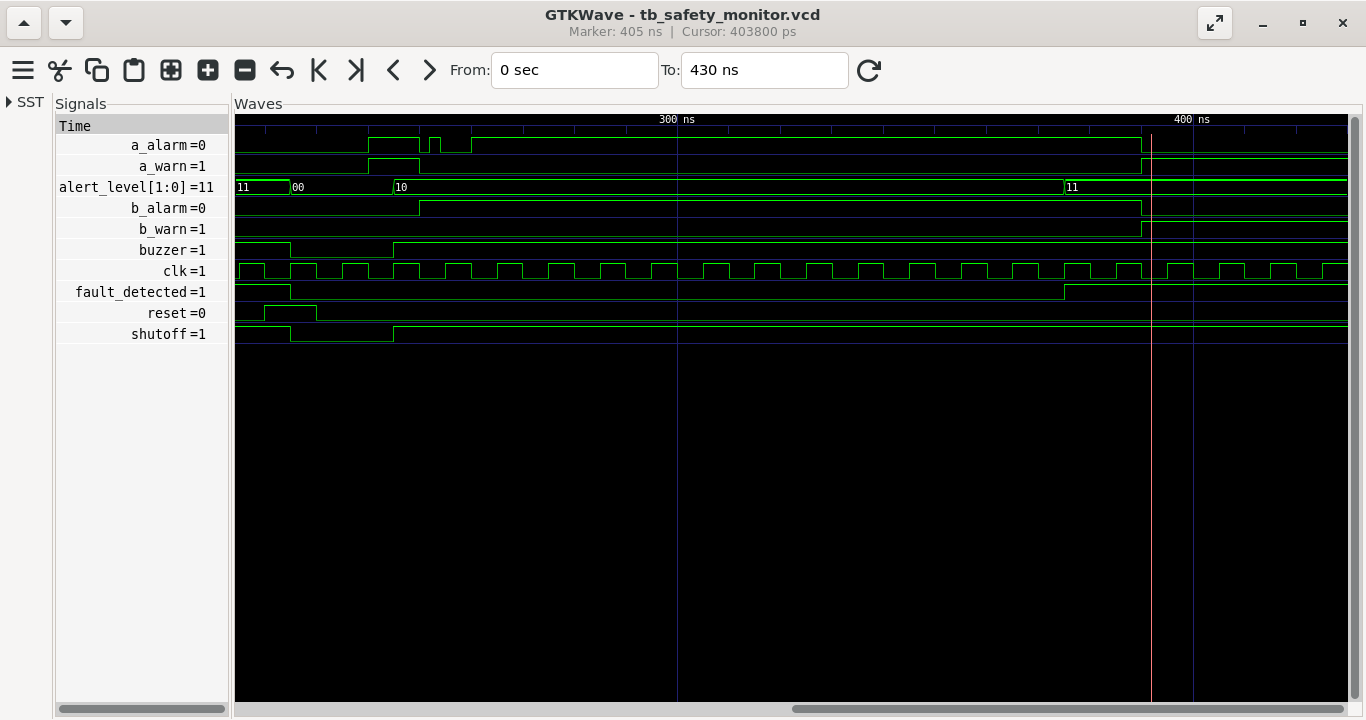
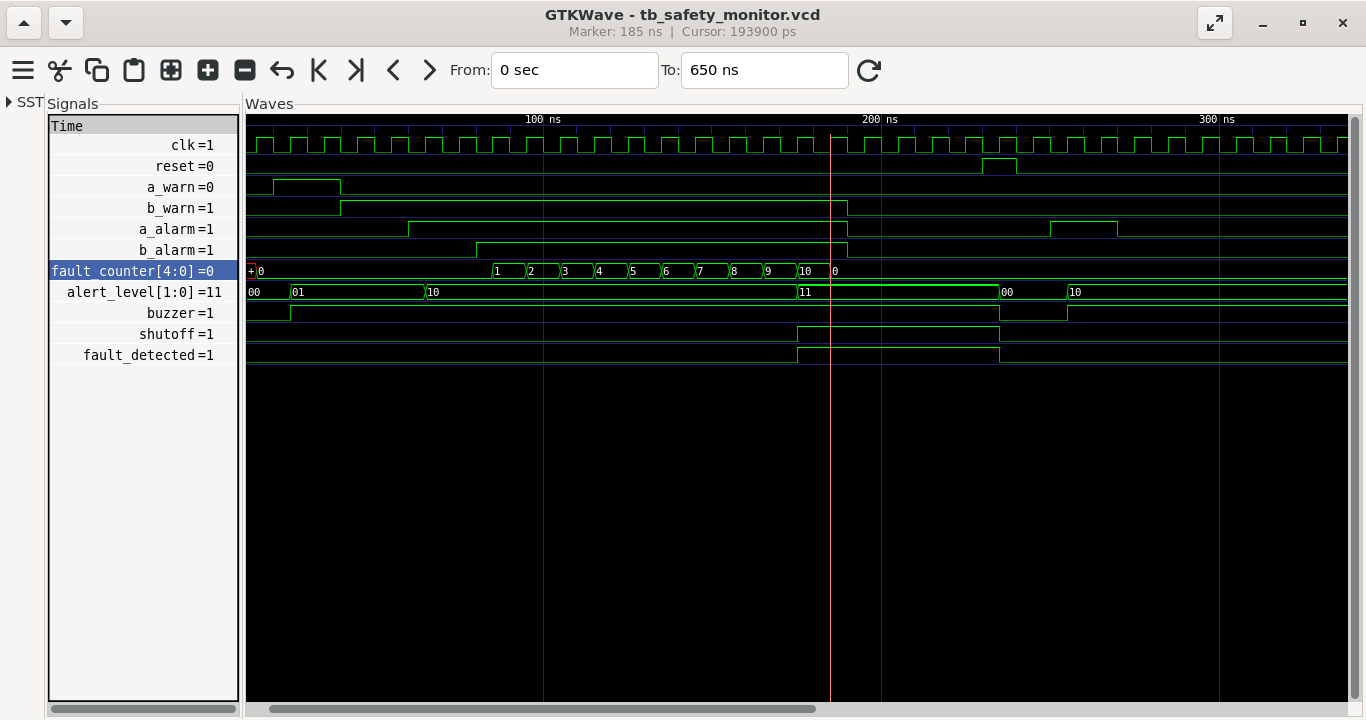
refactor: apply post-review refinements for design consistency

diff --git a/rtl_projects/safety_monitor/README.md b/rtl_projects/safety_monitor/README.md
@@ -2,55 +2,60 @@
 
 ## Overview
 
-This project is an RTL (Register Transfer Level) implementation of a Safety Monitor Finite State Machine (FSM) written in SystemVerilog.
+This project is a rigorously verified RTL (Register Transfer Level) implementation of a Safety Monitor Finite State Machine (FSM) written in SystemVerilog.
 
-This digital logic core was designed to act as the primary safety controller for an **IoT Multi-Gas Detection System**. While the physical sensors (MQ series) read the analog gas concentrations, this hardware module processes the digitized thresholds to manage system states, trigger physical buzzers, and strictly enforce a non-recoverable lockout protocol to prevent hardware damage during critical multi-gas faults.
+This digital logic core acts as the primary safety controller for an **IoT Multi-Gas Detection System**. While physical sensors (e.g., MQ-series) handle analog gas concentration readings, this hardware module processes the digitized thresholds to manage system states, trigger physical alarms, and strictly enforce a non-recoverable lockout protocol to mitigate catastrophic multi-gas faults.
 
-## Architecture
+## Architecture & Logic
 
-*(FSM Architecture Blueprint)*
+*(System Architecture Blueprint)*
 
-![Safety Monitor State Diagram](state_diagram.png)
+<img src="./safety_monitor_fsm.png" width="100%" alt="Safety Monitor State Diagram">
 
-The system is implemented as a 3-block Moore FSM with an integrated 10-cycle fault integration counter.
+The system is implemented as a 3-block Moore FSM with an integrated 10-cycle fault integration counter. To prevent expensive nuisance shutoffs from transient sensor glitches, the FSM separates the conceptual "Danger" state into a two-tiered escalation protocol:
 
 ### State Machine Protocol
 
-* **NORMAL (00):** System is idle. Sensors read safe levels.
-
-* **WARNING (01):** A single sensor detects elevated gas levels. Buzzer is triggered.
-
-* **ALARM (10):** A critical threshold is reached. If two sensors hit ALARM simultaneously, a 10-clock-cycle fault counter begins.
-
-* **LOCKOUT (11):** If the fault counter saturates, the system enters a hard lockout. A physical shutoff signal is asserted to close valves/power. **Crucially, the system cannot exit this state even if the gas clears.** It requires a manual physical `reset` to recover.
+* **NORMAL (00):** System is idle. Sensors read safe levels. All outputs driven low.
+* **WARNING (01):** A single sensor detects elevated gas levels. The `buzzer` is triggered to alert personnel, but operations continue.
+* **ALARM (10) [The Grace Period]:** A critical threshold is breached. The system **latches** into this state, ensuring the buzzer sounds continuously to mandate human inspection even if the gas briefly clears. A 10-clock-cycle fault integration timer begins. 
+* **LOCKOUT (11) [The Mitigation State]:** If the fault counter saturates (indicating a persistent, dangerous gas leak for 10 continuous clock cycles), the system enters a hard lockout. A physical `shutoff` signal is asserted to close physical valves and cut machine power. **This is a non-recoverable safety trap.** The system cannot exit this state—even if the gas completely clears—without a manual physical `reset` from a safety officer.
 
 ### Port Map
 
 | Type | Signal | Width | Description | 
 | :--- | :--- | :--- | :--- | 
 | **Input** | `clk` | 1-bit | System clock | 
-| **Input** | `reset` | 1-bit | Active-high synchronous reset | 
+| **Input** | `reset` | 1-bit | Active-high synchronous global reset | 
 | **Input** | `a_warn`, `b_warn` | 1-bit | Sensor A/B early warning thresholds | 
 | **Input** | `a_alarm`, `b_alarm` | 1-bit | Sensor A/B critical thresholds | 
 | **Output** | `alert_level` | 2-bit | Current FSM state (00, 01, 10, 11) | 
 | **Output** | `buzzer` | 1-bit | High during Warning, Alarm, and Lockout | 
-| **Output** | `shutoff` | 1-bit | High only during Lockout (drives safety relay) | 
+| **Output** | `shutoff` | 1-bit | High only during Lockout (drives physical safety relay) | 
 | **Output** | `fault_detected` | 1-bit | Asserts when the 10-cycle integration counter saturates | 
 
 ## Simulation & Verification
 
-The design is fully verified using Icarus Verilog and GTKWave. The testbench (`tb_safety_monitor.sv`) injects 11 distinct scenarios including normal operations, glitch immunity, priority overrides, and the critical lockout trap.
+The design is fully verified using Icarus Verilog and GTKWave. The testbench (`tb_safety_monitor.sv`) is an **automated self-checking environment** that mathematically evaluates the expected outputs across multiple complex scenarios without requiring manual waveform inspection.
+
+The test suite automatically verifies:
+
+* Basic state transitions and combinational output assignments.
+* Sub-clock-cycle glitch immunity (debouncing noise).
+* Latching behavior of the ALARM state when gas clears prior to threshold.
+* The exact 10-cycle fault integration boundary.
+* Lockout priority over downgraded warnings.
 
 ### How to Run Locally
 
 A bash automation script is provided for one-click compilation and simulation.
 
-1. Ensure `iverilog` and `gtkwave` are installed.
+1. Ensure `iverilog` and `gtkwave` are installed on your Linux/WSL environment.
 2. Make the script executable: `chmod +x sim_run.sh`
 3. Run the pipeline: `./sim_run.sh`
 
 ### Verification Evidence
 
-*(See below for visual proof of the FSM correctly trapping the system in LOCKOUT after a 10-cycle dual-alarm fault, even when sensors subsequently drop back to safe levels).*
+*(Below: Visual proof of the environmental fault injection. The system correctly identifies a critical dual-alarm fault, counts exactly 10 clock cycles [0 to 10 in decimal], drops the `shutoff` hammer by transitioning to state `11`, and securely traps the system in LOCKOUT even when the physical sensors subsequently drop back to safe levels).*
 
-![Fault Injection Waveform](fault_injection_waveform.png)
+<img src="./fault_injection_waveform.png" width="100%" alt="Fault Injection Waveform">
